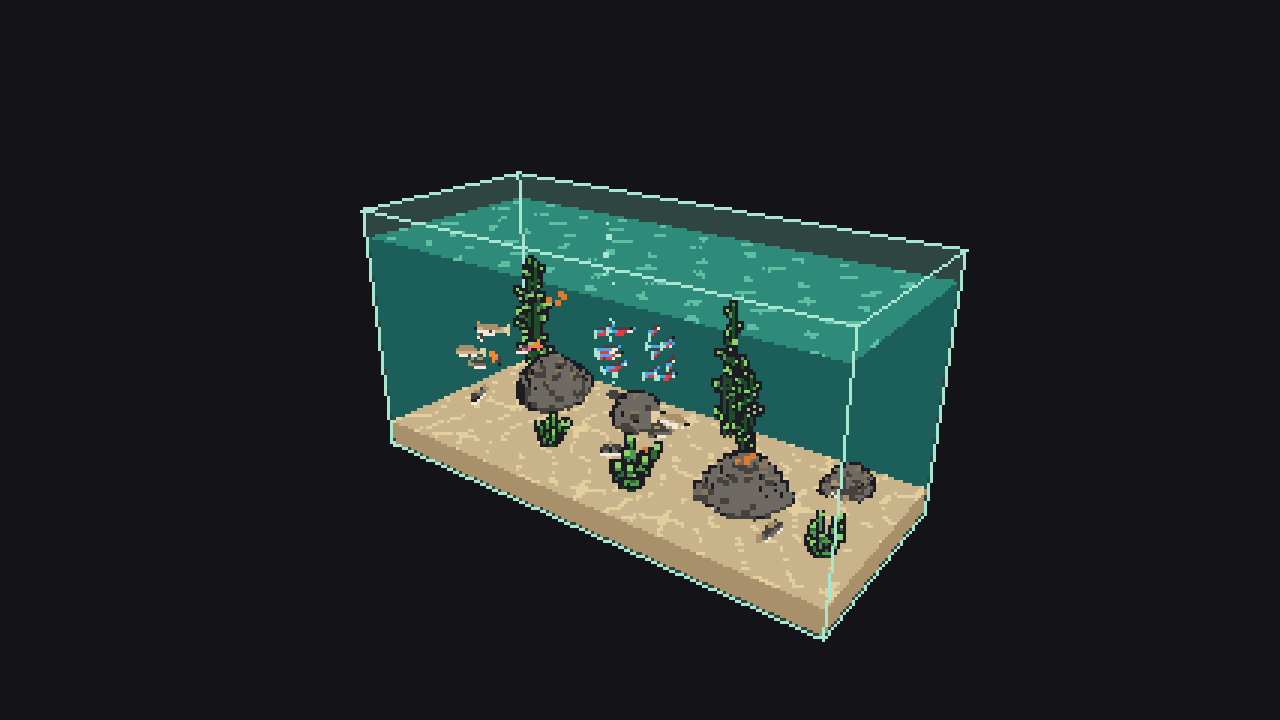
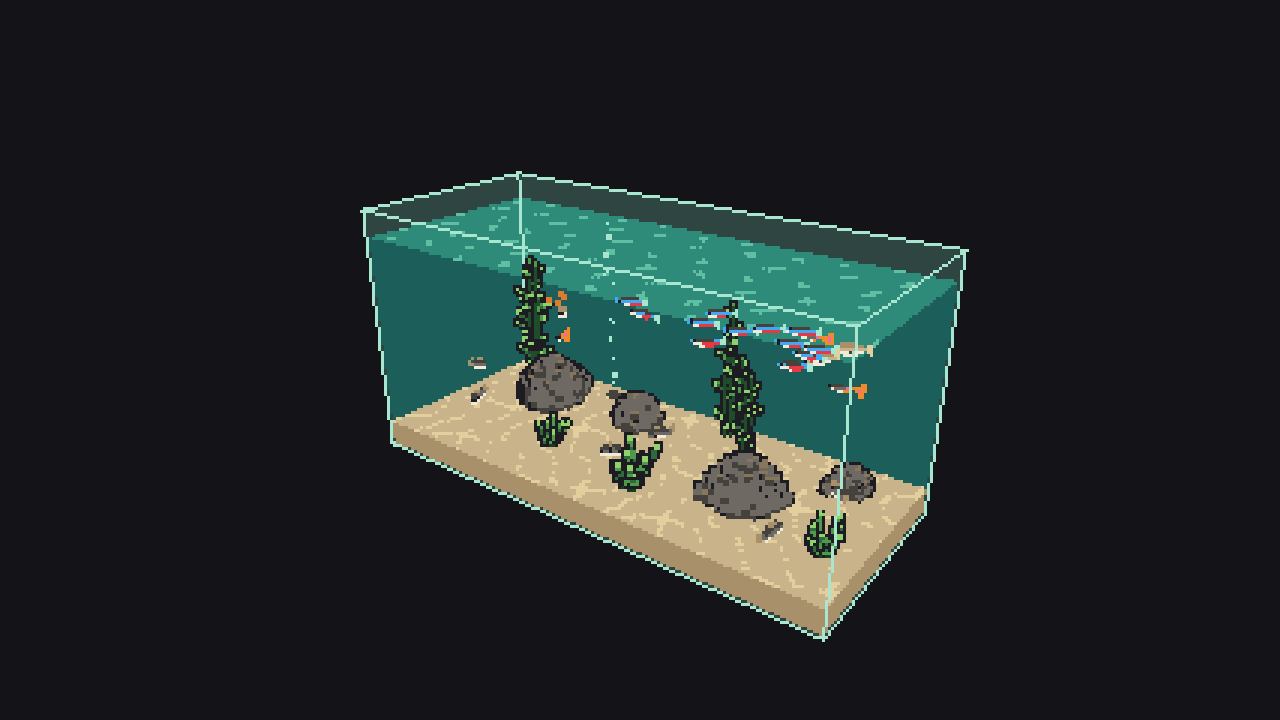
captures(c025): 5 angles

Changed region(s): [[0.3438, 0.3972, 0.6875, 0.6111], [0.5625, 0.6111, 0.5938, 0.6417]]

diff --git a/captures/latest/SOURCE.md b/captures/latest/SOURCE.md
@@ -1,5 +1,4 @@
-# Captures c024 (QA)
-- Branche : cycle/c024-nourrissage, PR #82, commit c032c2f (avant le commit de tests QA)
-- Graine et temps : défaut du harnais ; nourriture : time=30, nourrir=0,0:0.3:0.03,24:-0.15:0.1
-- 10 captures sans nourriture : identiques octet pour octet à captures/latest (cycle 23)
-- Nouvelles : three-quarter-nourriture, three-quarter-nourriture-minuit
+# Captures c025
+- Branche : cycle/c025-faim-poissons, PR #84
+- Commit : 481d56d (code testé) ; test e2e QA ajouté en bfc61eb
+- Graine : 42 ; tracé 30 s ; angles et temps : voir e2e/captures.spec.ts

diff --git a/captures/c025/SOURCE.md b/captures/c025/SOURCE.md
@@ -1,0 +1,4 @@
+# Captures c025
+- Branche : cycle/c025-faim-poissons, PR #84
+- Commit : 481d56d (code testé) ; test e2e QA ajouté en bfc61eb
+- Graine : 42 ; tracé 30 s ; angles et temps : voir e2e/captures.spec.ts
